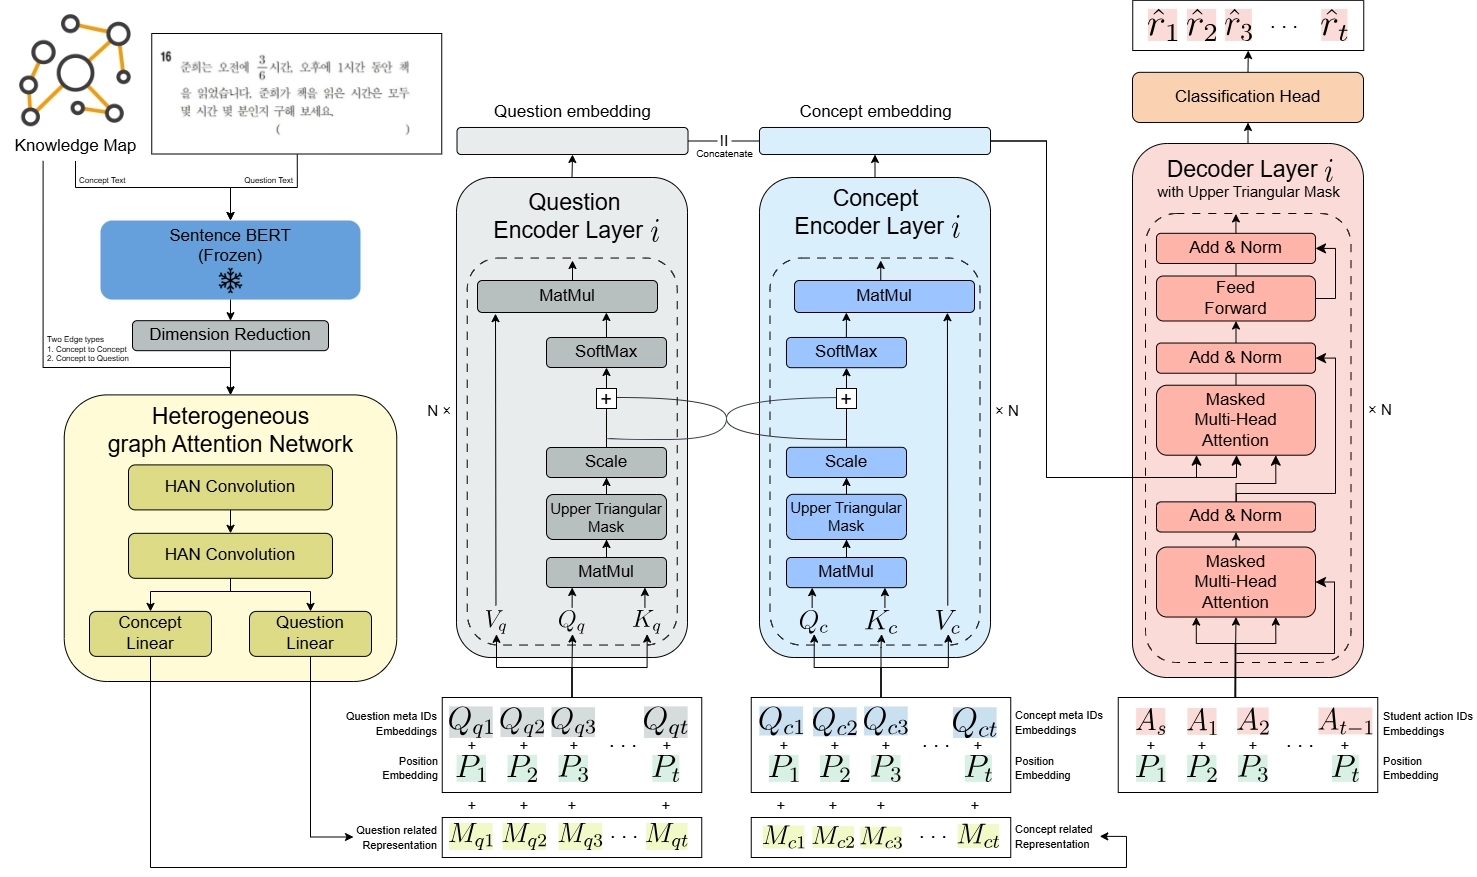
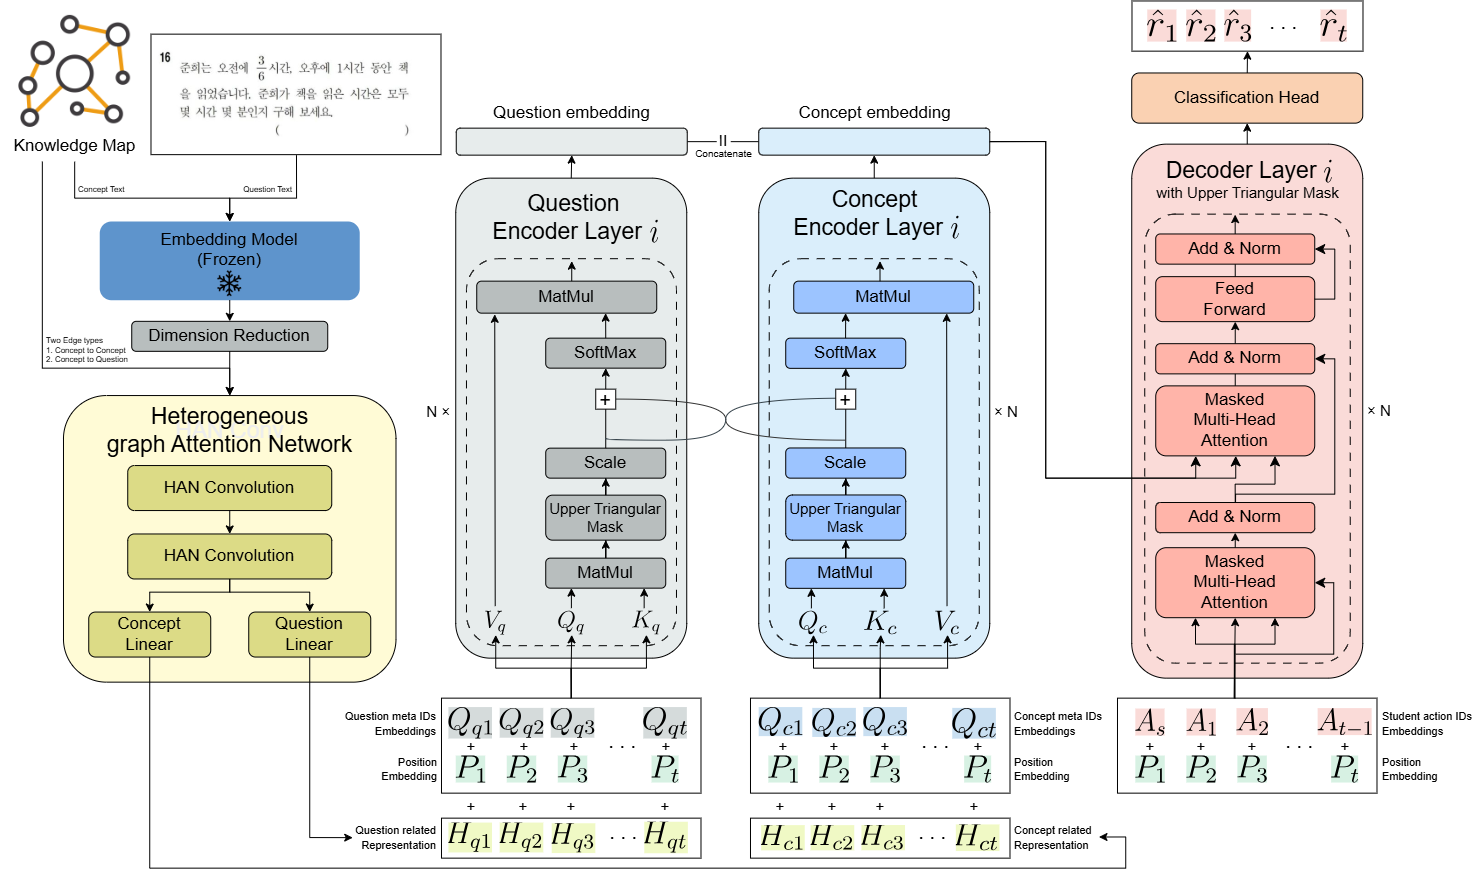
update pickt architecture for latest figure

diff --git a/README.md b/README.md
@@ -2,7 +2,7 @@
 
 ![Overview](./assets/pickt_architecture.png)
 
-Official implementation of **Practical Integrated Cross-consistent Knowledge Tracing (PICKT)** for the paper **"Enhancing Knowledge Tracing Robustness for New Question Cold Start in Intelligent Tutoring Systems."** This repository is intended for research code release accompanying a manuscript currently under review at *Computers and Education: Artificial Intelligence (CAEAI)*.
+Official implementation of **Practical Integrated Cross-consistent Knowledge Tracing (PICKT)** for the paper **"Enhancing knowledge tracing robustness for new question cold start in Intelligent Tutoring Systems."** This repository is intended for research code release accompanying a manuscript currently under review at *Computers & Education: Artificial Intelligence (CAEAI)*.
 
 > **Review status notice**  
 > The associated manuscript is currently under review. To preserve anonymous peer review, this repository may be updated after the review process with additional documentation, trained checkpoints, and reproducibility details. Please cite the repository rather than the unpublished manuscript until a formal publication record becomes available.
@@ -10,7 +10,7 @@ Official implementation of **Practical Integrated Cross-consistent Knowledge Tra
 
 ## Overview
 
-PICKT is a practical Knowledge Tracing (KT) model for Intelligent Tutoring System (ITS) services. The model estimates learners' knowledge states by integrating diverse educational signals while preserving the characteristics of each variable.
+PICKT is a practical Knowledge Tracing (KT) model for Intelligent Tutoring Systems (ITS) services. The model estimates learners' knowledge states by integrating diverse educational signals while preserving the characteristics of each variable.
 
 
 ## Motivation
@@ -142,7 +142,7 @@ If this repository is useful for your research, please use a repository citation
   author={Anonymous},
   year={2026},
   howpublished={GitHub repository},
-  note={Code release for the manuscript "Enhancing Knowledge Tracing Robustness for New Question Cold Start in Intelligent Tutoring Systems" under review}
+  note={Code release for the manuscript "Enhancing knowledge tracing robustness for new question cold start in Intelligent Tutoring Systems" under review}
 }
 ```
 
